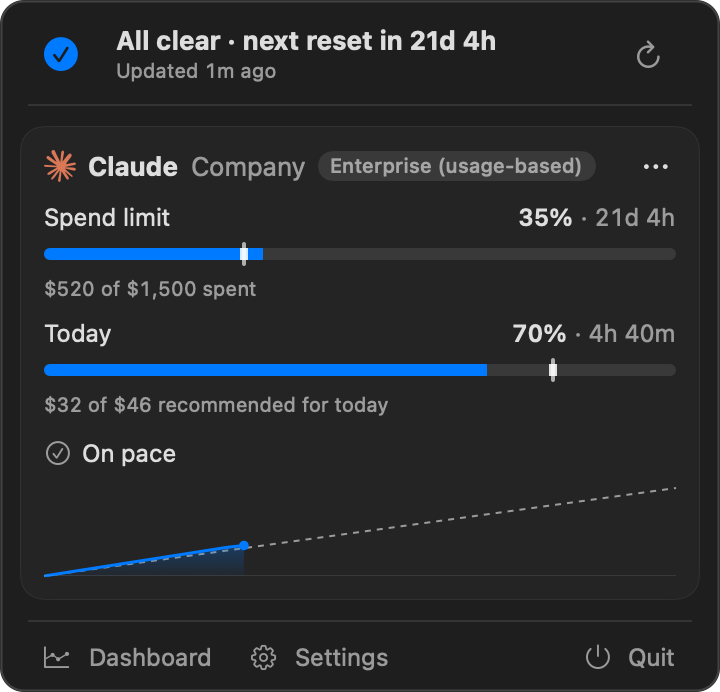
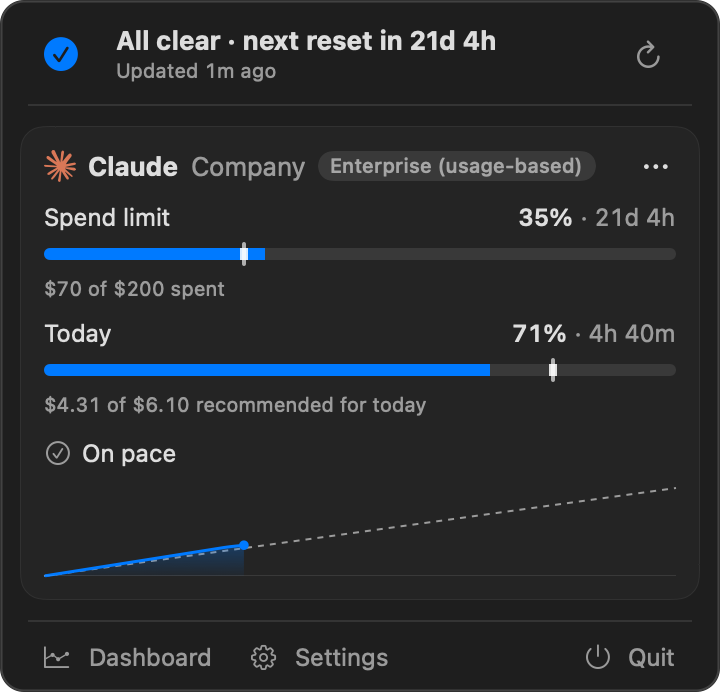
fix(popover): keep cents on a daily budget under $100
With a $200 monthly limit, common for company seats, the daily budget is a few dollars, and whole-dollar rounding showed $4.27 of $6.14 as $4 of $6. The Today line now keeps cents below a $100 budget, as other money figures in the app do, and drops them from $100 up.

The README's spend-limit image now uses a $200 limit, the usual size, with its made-up numbers scaled to match.

Changed region(s): [[0.0611, 0.5766, 0.6111, 0.6069], [0.0611, 0.3945, 0.3667, 0.4249], [0.7333, 0.4552, 0.7639, 0.5159]]

diff --git a/Sources/Tokenjar/Shared/Formatting.swift b/Sources/Tokenjar/Shared/Formatting.swift
@@ -67,9 +67,11 @@ enum Format {
     }
 
     /// "$79 of $133 recommended for today", "$175 of $133 daily budget · $42 over", with "· since 9:14 AM" when today
-    /// counts only from its first check. Whole units: a daily figure in cents is noise.
+    /// counts only from its first check. Whole units from a $100 budget up, where cents are noise; below it, as with a
+    /// $200 monthly limit, the cents carry the information.
     static func dailySpend(_ day: DailySpend, locale: Locale = .autoupdatingCurrent, timeZone: TimeZone = .autoupdatingCurrent) -> String {
-        let whole = { (amount: Double) in money(amount, currency: day.currency, fractionDigits: 0, locale: locale) }
+        let digits = day.budget >= 100 ? 0 : 2
+        let whole = { (amount: Double) in money(amount, currency: day.currency, fractionDigits: digits, locale: locale) }
         var text = "\(whole(day.spent)) of \(whole(day.budget)) " + (day.isRecommended ? "recommended for today" : "daily budget")
         if day.isOver { text += " · \(whole(day.spent - day.budget)) over" }
         if let from = day.countedFrom {

diff --git a/Sources/Tokenjar/App/PreviewData.swift b/Sources/Tokenjar/App/PreviewData.swift
@@ -547,7 +547,7 @@ struct PreviewRandom {
 
 extension AppModel {
     /// A seat billed per use, with a spend limit and the recommended daily budget on, for the README's spend-limit image.
-    /// $520 of $1,500 spent, $490 of it before today.
+    /// $70 of $200 spent, $66 of it before today.
     static func previewSpendLimit(now: Date = Date(timeIntervalSince1970: 1_791_660_000)) -> AppModel {
         let model = AppModel(paths: .preview)
         model.now = now
@@ -560,7 +560,7 @@ extension AppModel {
         let resetsAt = Date(timeIntervalSince1970: 1_793_491_200)
         let minutes = UsageWindow.monthMinutes(endingAt: resetsAt) ?? 44_640
         let cycleStart = resetsAt.addingTimeInterval(-Double(minutes) * 60)
-        let limit = 1_500.0, spent = 520.0, spentBeforeToday = 490.0
+        let limit = 200.0, spent = 70.0, spentBeforeToday = 66.0
         let window = UsageWindow(
             id: UsageWindow.spendCapID, label: "Spend limit", usedPercent: spent / limit * 100, windowMinutes: minutes, resetsAt: resetsAt
         )

diff --git a/Tests/TokenjarTests/Shared/FormattingTests.swift b/Tests/TokenjarTests/Shared/FormattingTests.swift
@@ -51,6 +51,9 @@ struct FormattingTests {
         #expect(line(79, 100) == "$79 of $100 daily budget")
         #expect(line(79.4, 133.2, recommended: true) == "$79 of $133 recommended for today")
         #expect(line(175, 133) == "$175 of $133 daily budget · $42 over")
+        // Under $100 a day the cents carry the information, as with a $200 monthly limit.
+        #expect(line(4.27, 6.14, recommended: true) == "$4.27 of $6.14 recommended for today")
+        #expect(line(7.5, 6.14) == "$7.50 of $6.14 daily budget · $1.36 over")
         #expect(line(12, 100, from: DateParsing.iso8601("2026-10-13T09:14:00Z")) == "$12 of $100 daily budget · since 9:14\u{202F}AM")
     }
 

diff --git a/Tests/TokenjarTests/App/PreviewDataTests.swift b/Tests/TokenjarTests/App/PreviewDataTests.swift
@@ -24,7 +24,7 @@ struct PreviewDataTests {
         let account = try #require(model.config.accounts.first)
         let snapshot = try #require(model.status(for: account).snapshot)
         #expect(snapshot.windows.map(\.id) == [UsageWindow.spendCapID])
-        #expect(snapshot.spendLimitMoney?.limit == 1_500)
+        #expect(snapshot.spendLimitMoney?.limit == 200)
         let today = try #require(model.dailySpend(for: account, snapshot: snapshot, now: model.popoverNow))
         #expect(today.isRecommended)
         #expect(today.spent > 0)

diff --git a/README.md b/README.md
@@ -46,7 +46,7 @@ An Enterprise seat billed per use has one limit, the money it may spend this mon
 <p align="center">
   <picture>
     <source media="(prefers-color-scheme: dark)" srcset="docs/images/popover-spend-limit-dark.png">
-    <img src="docs/images/popover-spend-limit-light.png" width="360" alt="A card for a Claude seat billed per use: a spend limit bar at 35% with $520 of $1,500 spent and 21 days to its reset, and a Today bar at 70% with $32 of a recommended $46 for today">
+    <img src="docs/images/popover-spend-limit-light.png" width="360" alt="A card for a Claude seat billed per use: a spend limit bar at 35% with $70 of $200 spent and 21 days to its reset, and a Today bar at 71% with $4.31 of a recommended $6.10 for today">
   </picture>
 </p>
 
